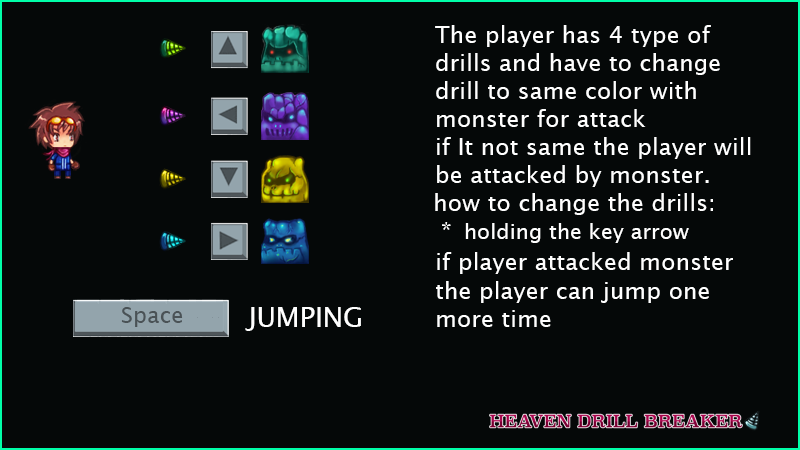
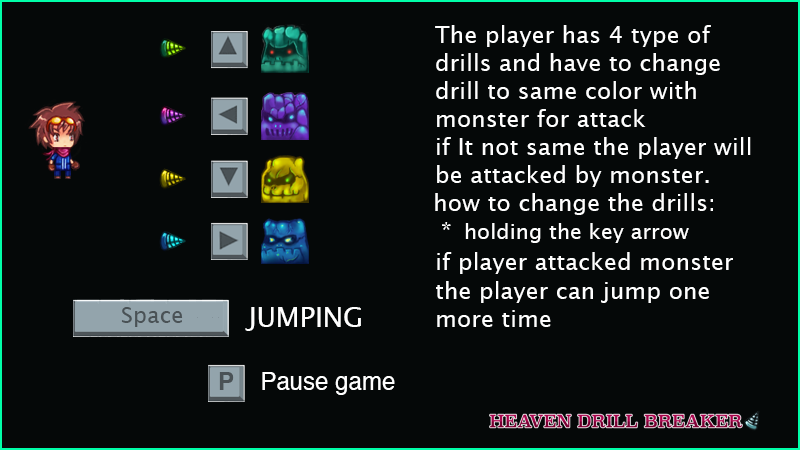
new how to

Changed region(s): [[0.25, 0.8089, 0.5, 0.9022]]

diff --git a/MyProject/src/GameLayer.js b/MyProject/src/GameLayer.js
@@ -19,6 +19,15 @@ var GameLayer = cc.LayerColor.extend({
         this.setPosition(0, 0);
     },
 
+    createPauseText:function(){
+        this.pauseLabel = cc.LabelTTF.create('0', 'Arial', 55);
+        this.pauseLabel.setPosition(screenWidth/2,screenHeight/2);
+        this.addChild(this.pauseLabel,5);
+        this.pauseLabel.setString("");
+        this.pauseOpacityDt = 0;
+        this.pauseIsMotionOn = false;
+    },
+
     initComponent: function() {
         this.createPlayer();
         this.createDrill();
@@ -30,6 +39,7 @@ var GameLayer = cc.LayerColor.extend({
         this.createScoreLabel();
         this.createComboText();
         this.initSound();
+        this.createPauseText();
 
     },
     createComboText: function() {
@@ -126,6 +136,7 @@ var GameLayer = cc.LayerColor.extend({
         this.ItemCreatedTimer = 0;
         this.speedDt = 0;
         this.firstRun = false;
+        this.isPause = false;
     },
 
 
@@ -386,6 +397,18 @@ var GameLayer = cc.LayerColor.extend({
             if (!this.drillSFX && !this.isGameOver) {
                 cc.audioEngine.playEffect(res.drill_wav);
                 this.drillSFX = true;
+            }
+        }
+        if(e==80){
+            this.pauseLabel.setString("Pause");
+            if(!this.isPause){
+                this.isPause = true;
+                cc.director.pause();
+            }
+            else{
+                this.isPause = false;
+                cc.director.resume();
+                this.pauseLabel.setString("");
             }
         }
     },
